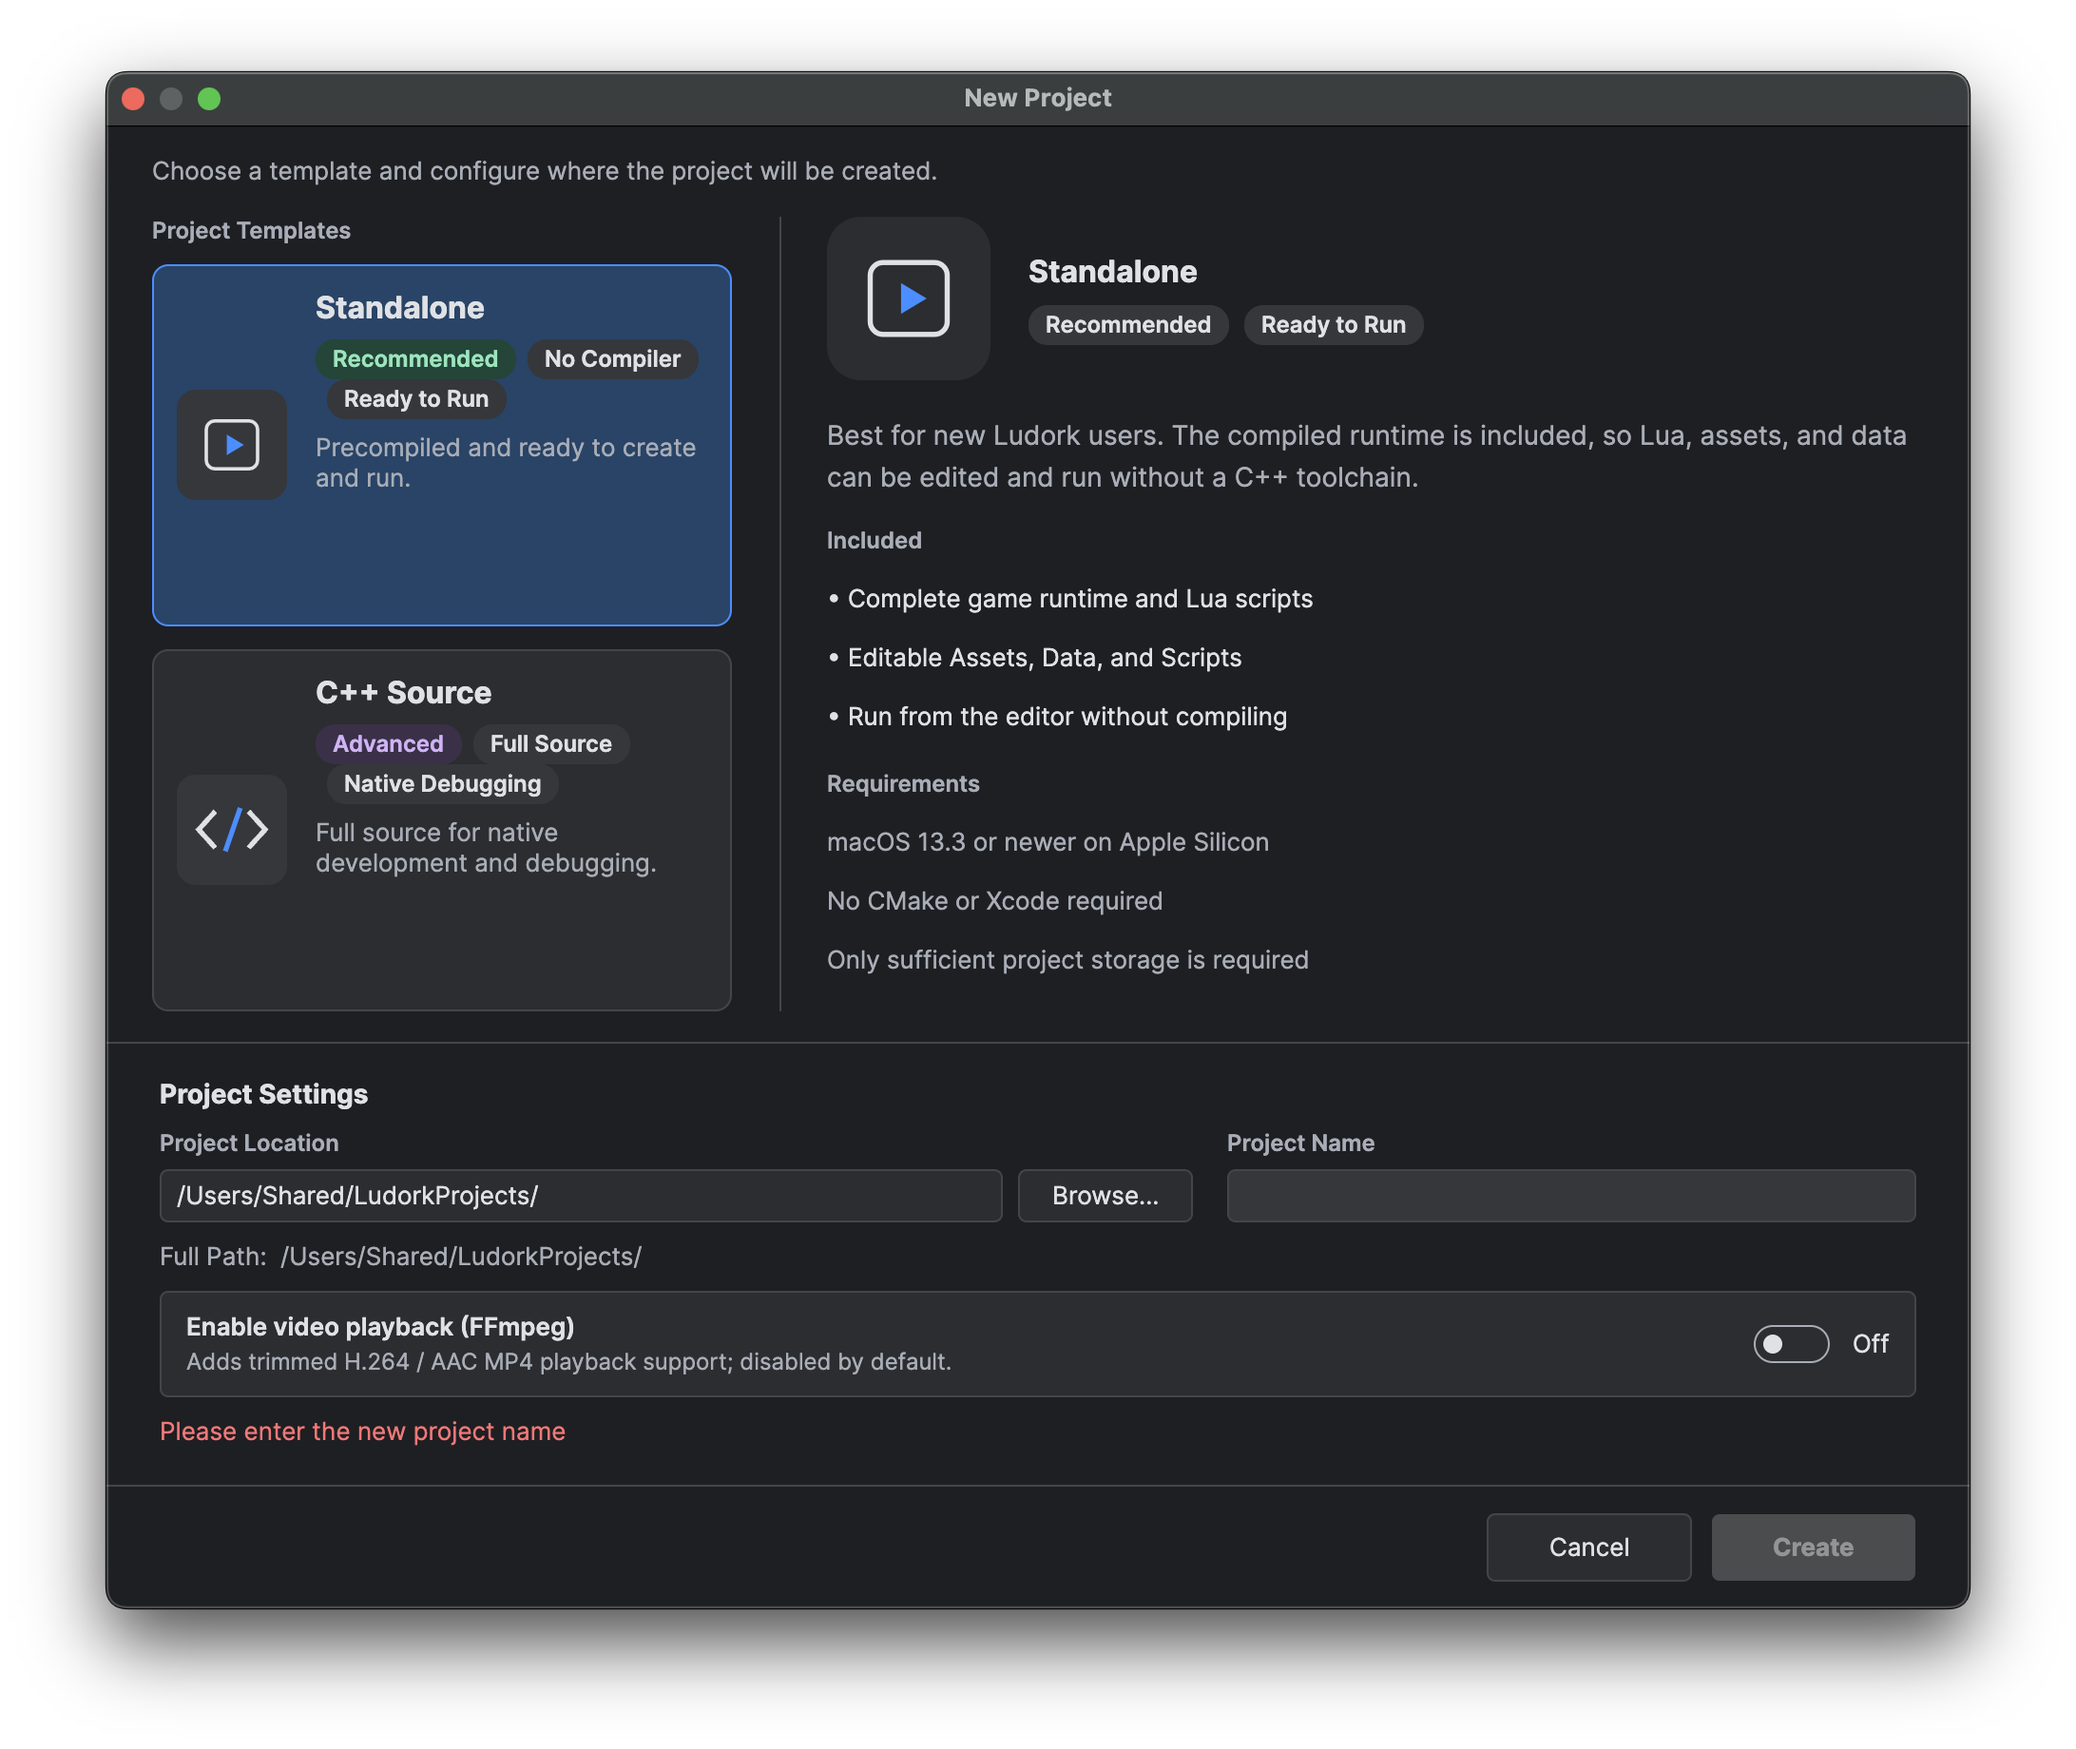
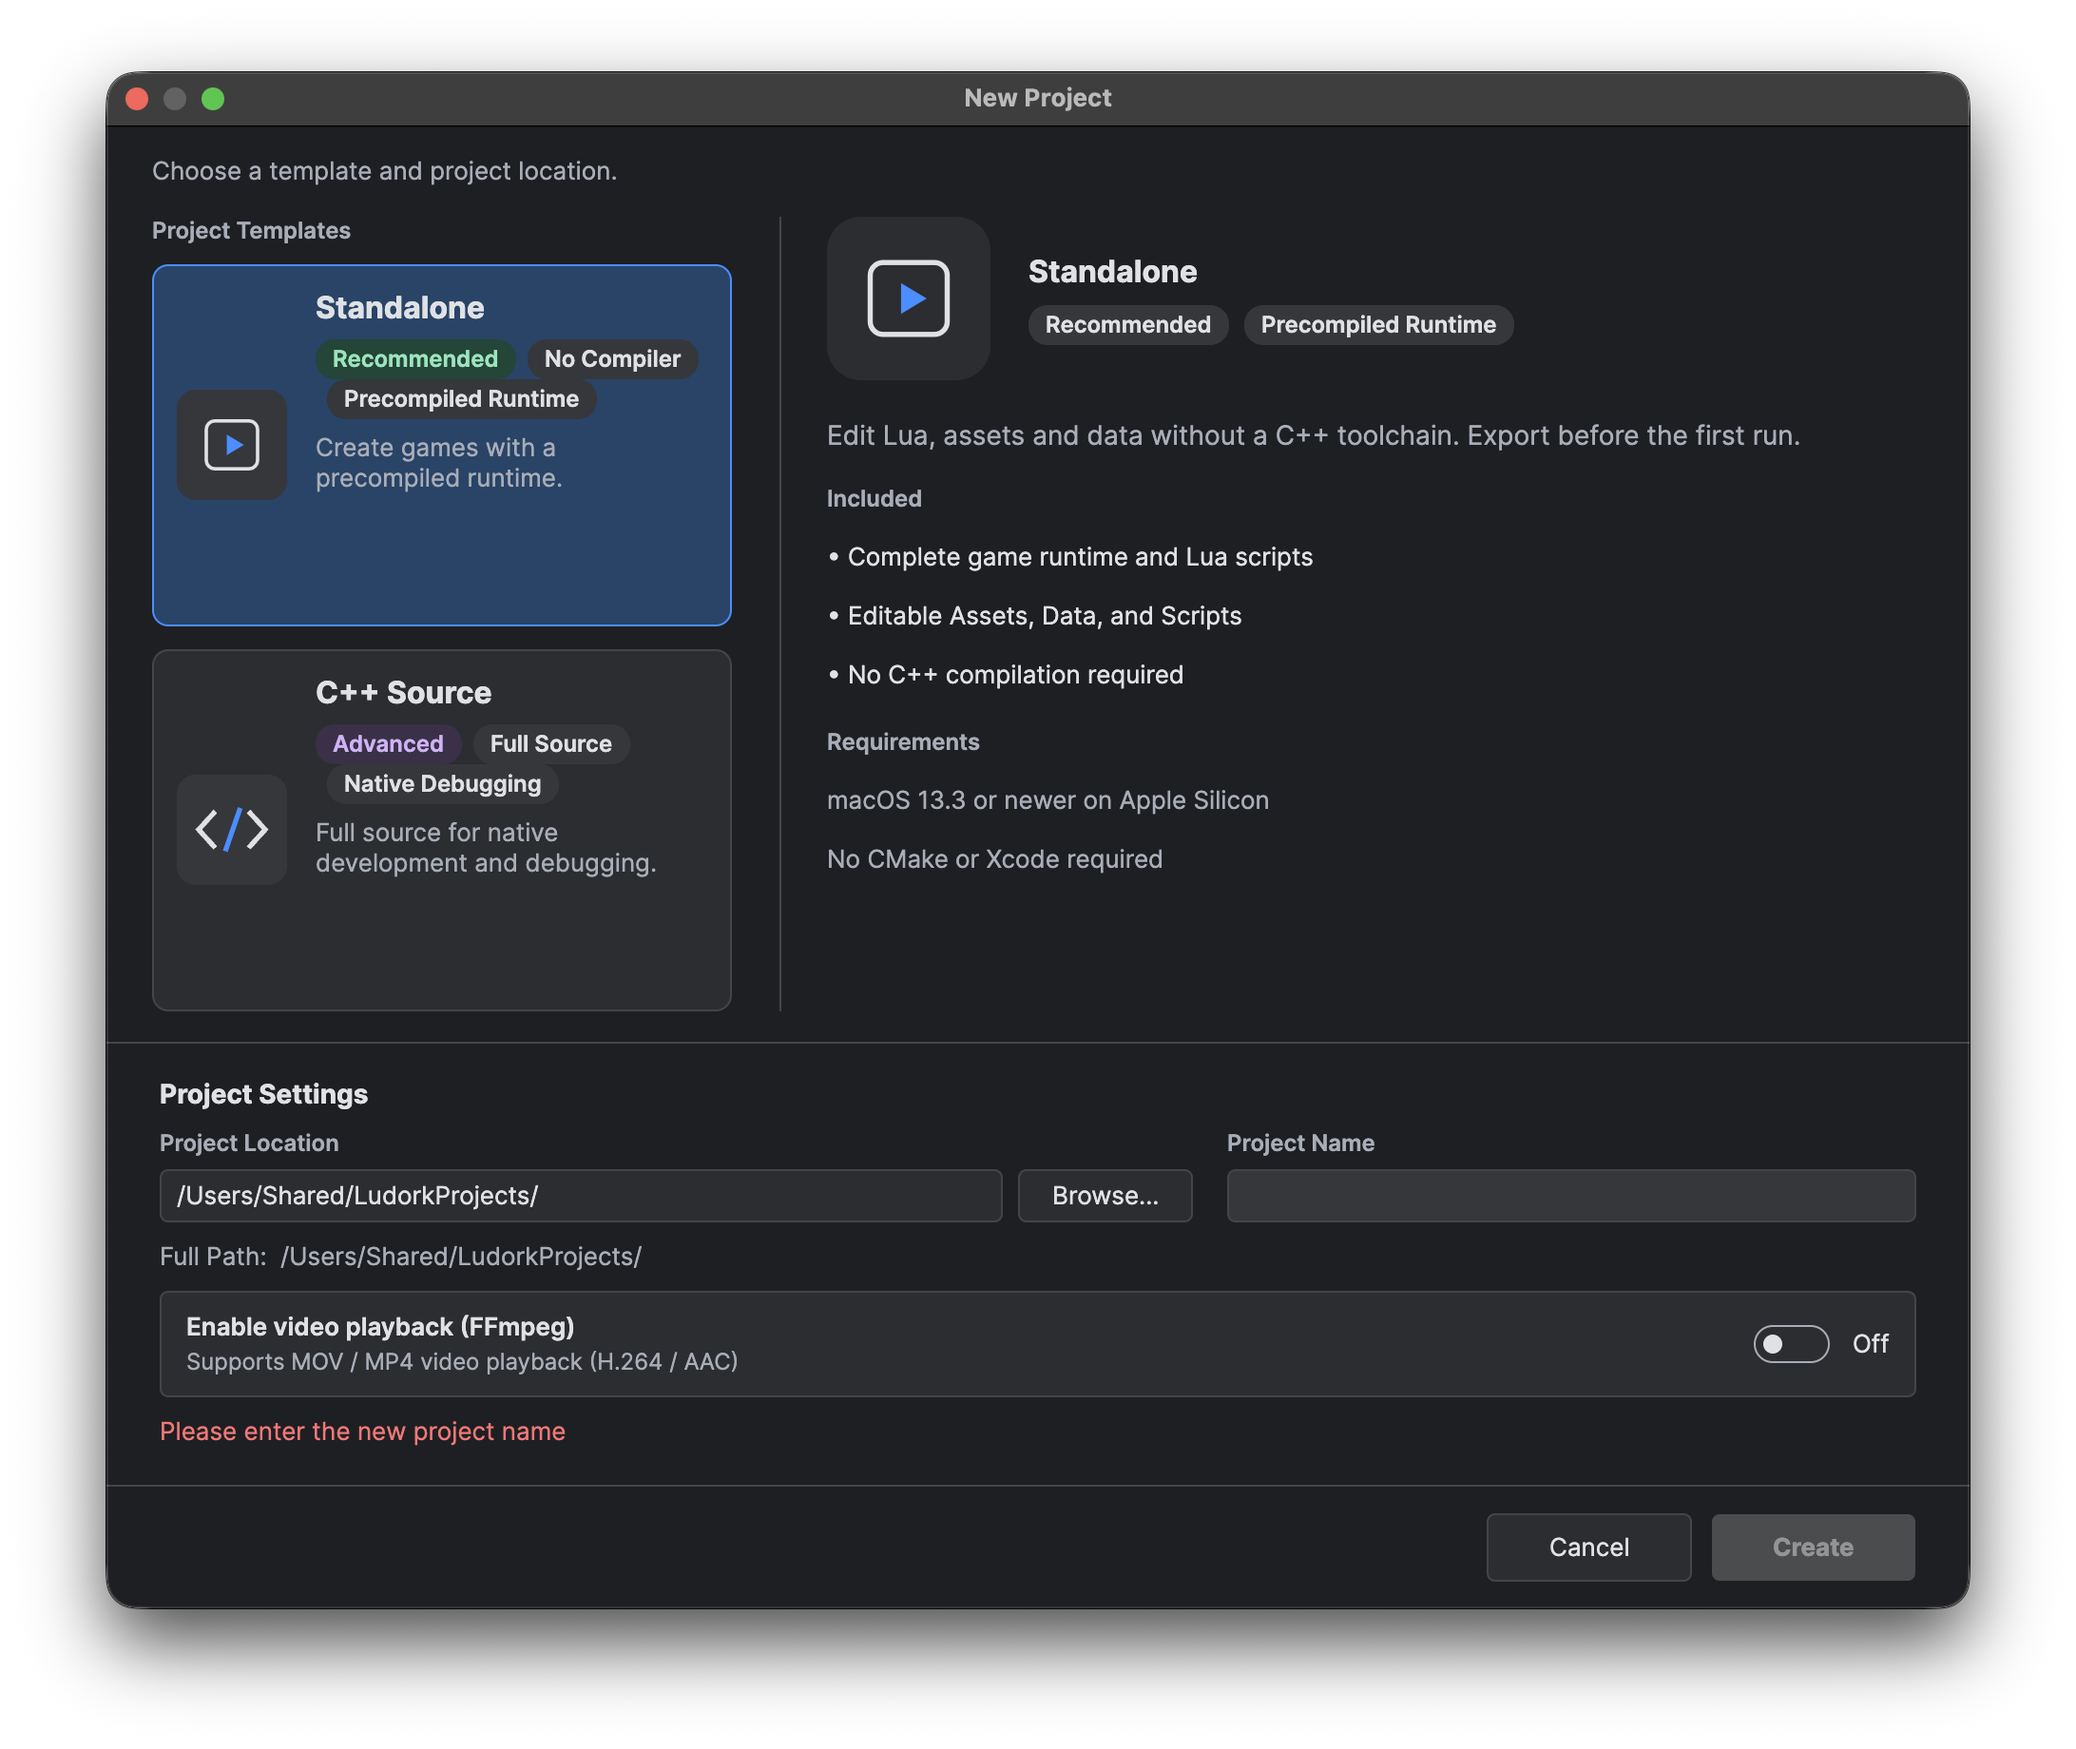
docs: describe shared subtitle languages and row controls

diff --git a/1.0/docs/en_GB/02.Editor User Guide/11.Video Subtitles.md b/1.0/docs/en_GB/02.Editor User Guide/11.Video Subtitles.md
@@ -6,9 +6,17 @@ Create a subtitle document in the project file explorer under `Data/Subtitles`, 
 
 The upper-left area previews the picture and subtitles, the upper-right area edits the selected section, and the timeline spans the bottom. Select a section by its array position; sections have no separate name or identifier.
 
+![Subtitle Editor with video preview, multilingual text controls and timeline](../../../images/editor/subtitle-edit.png)
+
 Add, select, delete or move sections on the timeline, and drag their edges to adjust their duration. Zoom the timeline and drag the playhead to inspect a time. The properties pane also accepts precise start and end times in seconds. Save orders sections by start time and rejects invalid times or overlapping sections.
 
-Each section has its own multilingual switch. With it off, edit an ordered string array. With it on, edit language keys on the left and the selected language's string array on the right. Arrays support adding, removing and reordering strings. Turning multilingual mode on places the existing array under `en_GB`; turning it off asks which language to retain and confirms discarding other languages. Undo restores the previous content.
+Each section has a multilingual switch, off by default for new sections. Turning it on places the existing text under `en_GB` and adds the document's other languages with empty text. Turning it off retains the selected language, with confirmation before discarding other translations from that section.
+
+All multilingual sections share the same language keys. Use `+` and `−` below the language list to add or delete a language throughout the document, or right-click a language to rename it. Names must be nonempty and unique; new languages start with empty text.
+
+Within a section, all languages have the same number of text rows; different sections can have different counts. Click or focus a row, then use `↑`, `↓`, `+` and `−` below the text list to move it, append an empty row or delete it across that section's languages. Typing changes only the selected translation. Switching languages keeps the row selection; switching sections selects the first row. Empty text lists and language lists are allowed, with text operations disabled when no language exists.
+
+When opening existing data, the editor combines the language keys and pads missing languages or shorter arrays to each section's longest array with empty strings, preserving existing text. This is one unsaved, undoable change. Undo restores the original data; padding runs again only with the next content edit and shares that edit's undo step.
 
 Use Play/Pause, Stop, the current time and preview language to check timing. Without a reference video, playback uses a plain background and ends at the last section's end time. An empty subtitle document remains editable.
 

diff --git a/1.0/docs/zh_CN/02.编辑器用户指南/11.视频字幕.md b/1.0/docs/zh_CN/02.编辑器用户指南/11.视频字幕.md
@@ -6,9 +6,17 @@
 
 左上区域预览画面和字幕，右上区域编辑所选片段，底部为跨栏时间轴。片段按数组序号显示，没有独立名称或标识。
 
+![字幕编辑器的视频预览、多语言文本操作与时间轴](../../../images/editor/subtitle-edit.png)
+
 在时间轴上新增、选择、删除或移动片段，拖动边界调整时长；缩放时间轴并拖动播放头检查指定时刻。属性区也可精确输入以秒为单位的起止时间。保存时按开始时间排序，非法时间或重叠片段会阻止保存。
 
-每个片段有独立的多语言开关。关闭时编辑有序字符串数组；开启时在左侧编辑语言键，右侧编辑对应语言的字符串数组。数组支持增删及调整字符串顺序。开启多语言时，原数组归入 `en_GB`；关闭时选择保留的语言，丢弃其他语言前需要确认。撤销可恢复原有内容。
+每个片段有独立的多语言开关，新片段默认关闭。开启时，原文本归入 `en_GB`，文档中的其余语言填入空文本；关闭时保留当前选中的语言，丢弃该片段的其他译文前需要确认。
+
+所有多语言片段共用语言键。语言列表底部的 `+`、`−` 按钮在整份文档中同步增删语言，右键点击语言可重命名。语言名不能为空或重复，新增语言的文本初始为空。
+
+同一片段内，各语言的文本条数一致，不同片段可以不同。点击文本框或将焦点移入其中以选中一行，再用文本列表底部的 `↑`、`↓`、`+`、`−` 移动该行、在末尾追加空行或删除该行，操作同步到该片段的所有语言；输入文本只修改当前译文。切换语言保留选中行，切换片段选中首行。允许空文本列表和空语言列表；没有语言时禁用文本操作。
+
+打开已有数据时，编辑器合并各多语言片段的语言键，并按每个片段的最大文本条数，为缺失语言和较短数组补齐空字符串，保留已有文本。补齐记为一笔可撤销的未保存修改；撤销后恢复原数据，直到下次内容编辑时才重新补齐，并与该次编辑共用一笔撤销记录。
 
 通过播放/暂停、停止、当前时间和预览语言检查时序。没有参考视频时使用纯色背景，播放到最后一个片段的结束时间。空字幕数据仍可编辑。
 
